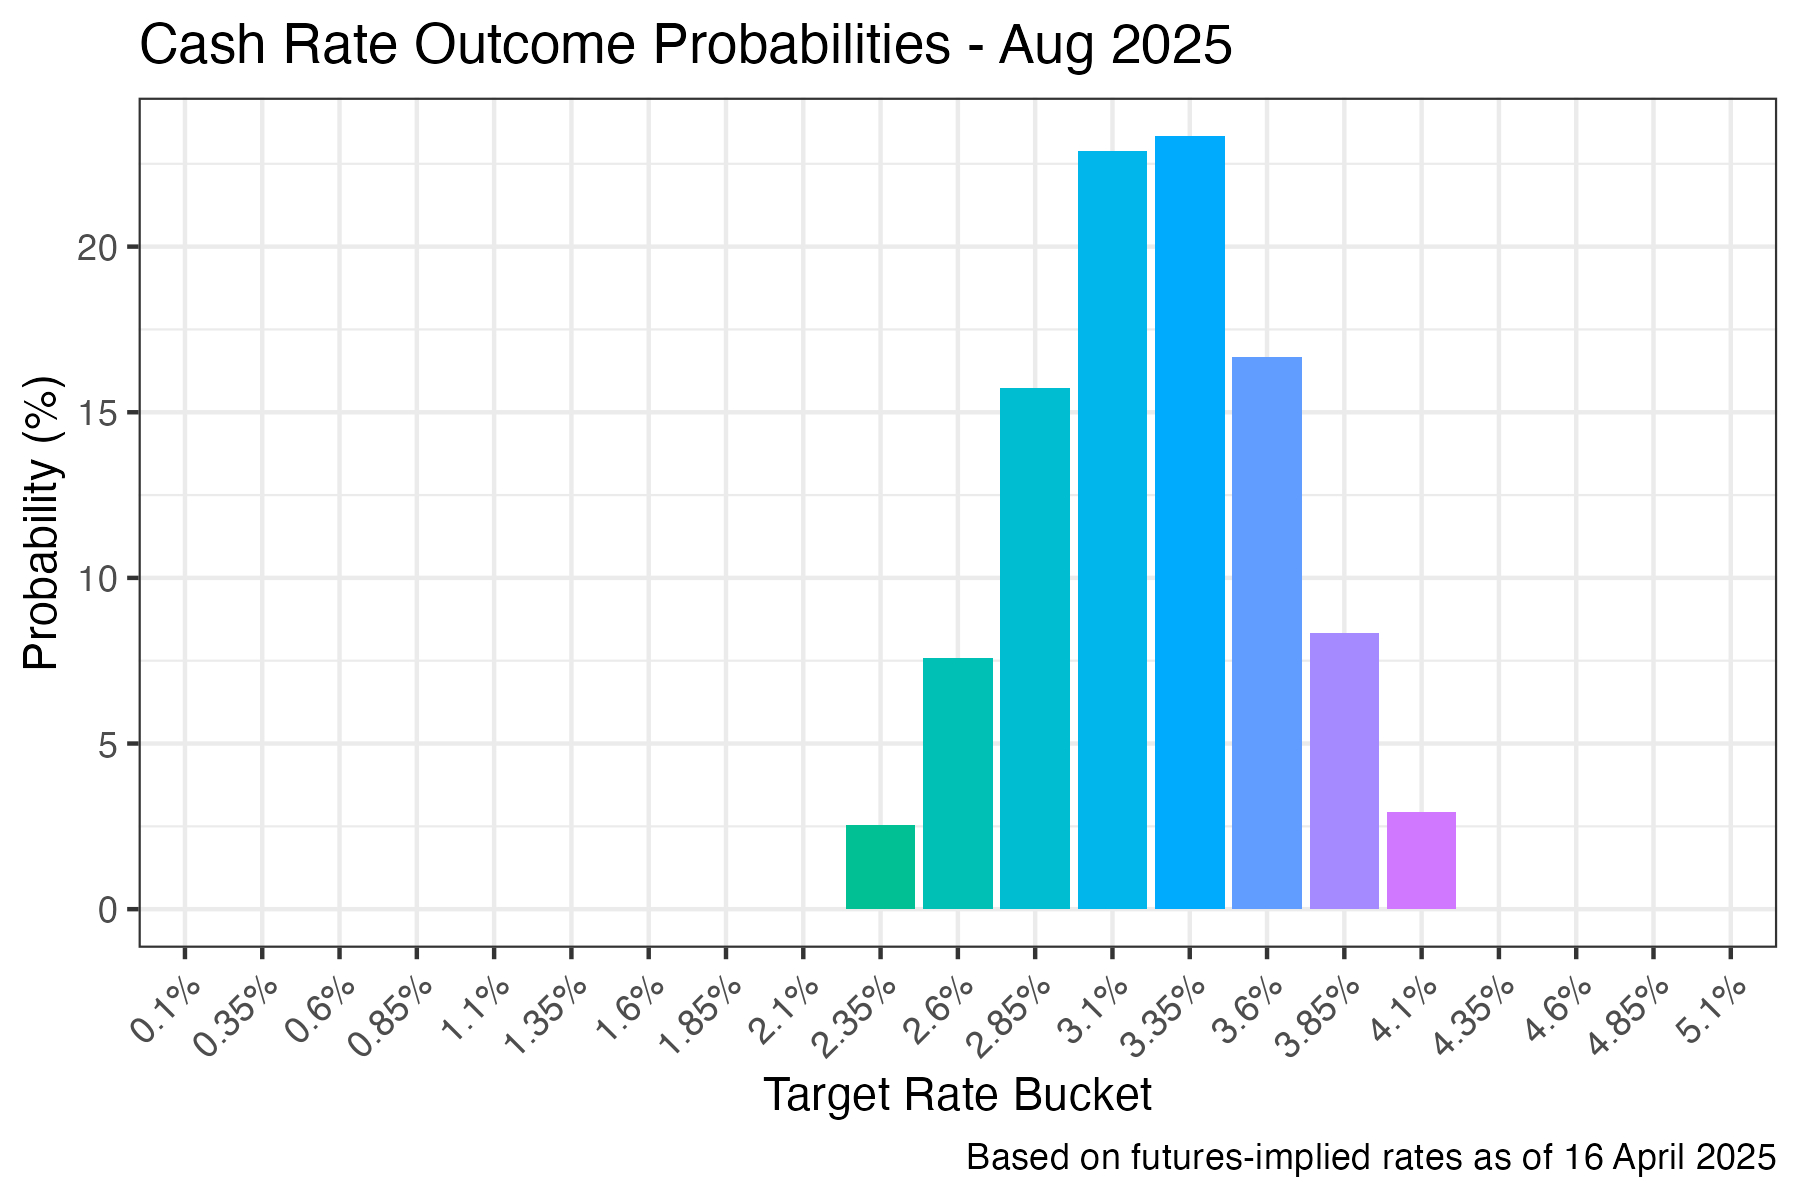
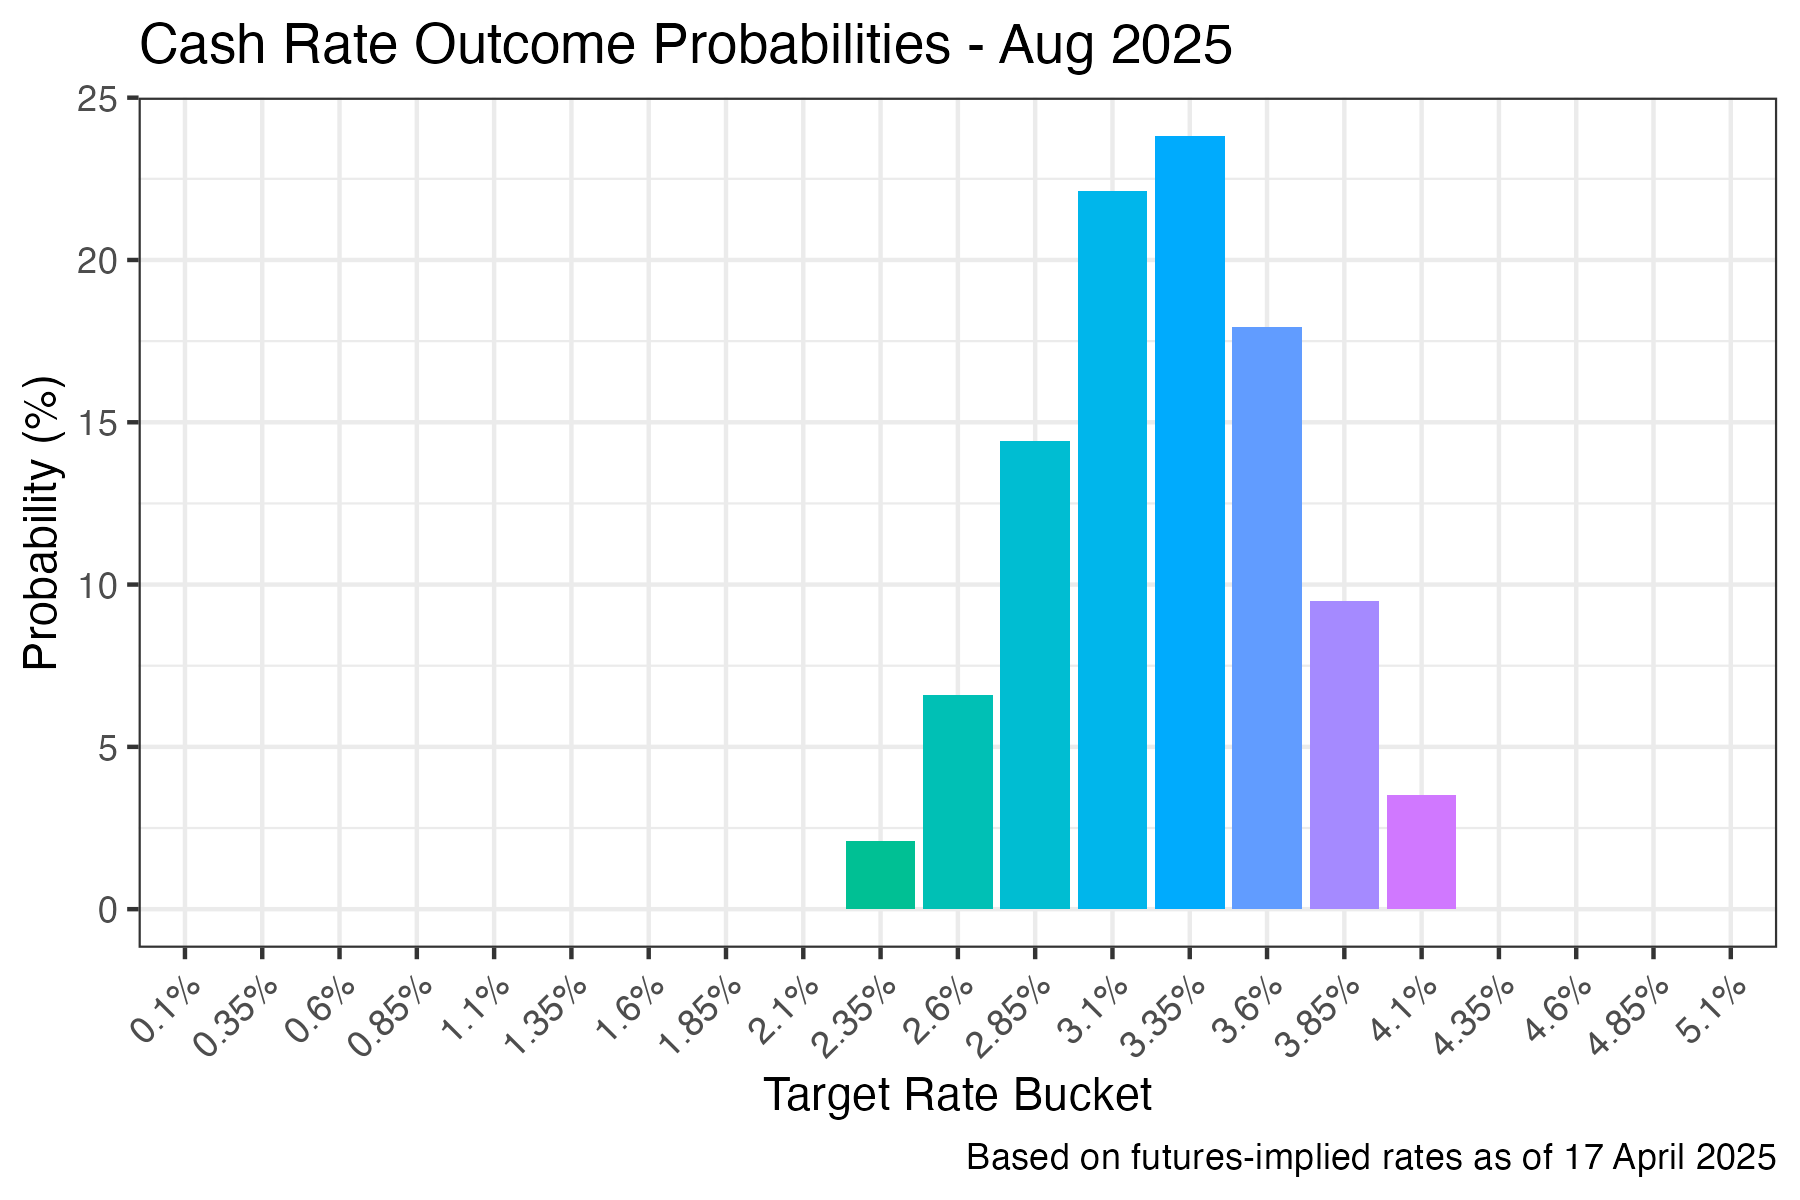
refreshing data

diff --git a/README.html b/README.html
@@ -622,7 +622,7 @@ repo.</p>
 <h1 id="graphs">Graphs!</h1>
 <p>The file <code>R/viz_cash_rate.R</code> produces visualisations of
 this data, which are shown below:</p>
-<pre><code>#&gt; # A tibble: 294 × 4
+<pre><code>#&gt; # A tibble: 147 × 4
 #&gt;    date       bucket probability month_label
 #&gt;    &lt;date&gt;     &lt;chr&gt;        &lt;dbl&gt; &lt;chr&gt;      
 #&gt;  1 2025-04-01 0.1%             0 Apr 2025   
@@ -635,32 +635,20 @@ this data, which are shown below:</p>
 #&gt;  8 2025-04-01 1.85%            0 Apr 2025   
 #&gt;  9 2025-04-01 2.1%             0 Apr 2025   
 #&gt; 10 2025-04-01 2.35%            0 Apr 2025   
-#&gt; # ℹ 284 more rows
+#&gt; # ℹ 137 more rows
 #&gt; [1] &quot;Apr 2025&quot;
-#&gt; Warning: Removed 21 rows containing missing values or values outside the scale range
-#&gt; (`geom_bar()`).
 #&gt; [1] &quot;May 2025&quot;
-#&gt; Warning: Removed 21 rows containing missing values or values outside the scale range
-#&gt; (`geom_bar()`).
 #&gt; [1] &quot;Jul 2025&quot;
-#&gt; Warning: Removed 21 rows containing missing values or values outside the scale range
-#&gt; (`geom_bar()`).
 #&gt; [1] &quot;Aug 2025&quot;
-#&gt; Warning: Removed 21 rows containing missing values or values outside the scale range
-#&gt; (`geom_bar()`).
 #&gt; [1] &quot;Sep 2025&quot;
-#&gt; Warning: Removed 21 rows containing missing values or values outside the scale range
-#&gt; (`geom_bar()`).
 #&gt; [1] &quot;Nov 2025&quot;
-#&gt; Warning: Removed 21 rows containing missing values or values outside the scale range
-#&gt; (`geom_bar()`).
 #&gt; [1] &quot;Dec 2025&quot;
 #&gt; Warning: Using `size` aesthetic for lines was deprecated in ggplot2 3.4.0.
 #&gt; ℹ Please use `linewidth` instead.
 #&gt; This warning is displayed once every 8 hours.
 #&gt; Call `lifecycle::last_lifecycle_warnings()` to see where this warning was
 #&gt; generated.
-#&gt; # A tibble: 189 × 3
+#&gt; # A tibble: 210 × 3
 #&gt;    scrape_date bucket probability
 #&gt;    &lt;date&gt;      &lt;chr&gt;        &lt;dbl&gt;
 #&gt;  1 2025-04-03  0.10%    1.56e-159
@@ -693,7 +681,7 @@ this data, which are shown below:</p>
 #&gt; 28 2025-04-04  1.60%    4.49e- 53
 #&gt; 29 2025-04-04  1.85%    1.58e- 41
 #&gt; 30 2025-04-04  2.10%    1.90e- 31
-#&gt; # ℹ 159 more rows</code></pre>
+#&gt; # ℹ 180 more rows</code></pre>
 
 </body>
 </html>

diff --git a/README.md b/README.md
@@ -29,7 +29,7 @@ Please fork/copy/modify as you see fit.
 The file `R/viz_cash_rate.R` produces visualisations of this data, which
 are shown below:
 
-    #> # A tibble: 294 × 4
+    #> # A tibble: 147 × 4
     #>    date       bucket probability month_label
     #>    <date>     <chr>        <dbl> <chr>      
     #>  1 2025-04-01 0.1%             0 Apr 2025   
@@ -42,32 +42,20 @@ are shown below:
     #>  8 2025-04-01 1.85%            0 Apr 2025   
     #>  9 2025-04-01 2.1%             0 Apr 2025   
     #> 10 2025-04-01 2.35%            0 Apr 2025   
-    #> # ℹ 284 more rows
+    #> # ℹ 137 more rows
     #> [1] "Apr 2025"
-    #> Warning: Removed 21 rows containing missing values or values outside the scale range
-    #> (`geom_bar()`).
     #> [1] "May 2025"
-    #> Warning: Removed 21 rows containing missing values or values outside the scale range
-    #> (`geom_bar()`).
     #> [1] "Jul 2025"
-    #> Warning: Removed 21 rows containing missing values or values outside the scale range
-    #> (`geom_bar()`).
     #> [1] "Aug 2025"
-    #> Warning: Removed 21 rows containing missing values or values outside the scale range
-    #> (`geom_bar()`).
     #> [1] "Sep 2025"
-    #> Warning: Removed 21 rows containing missing values or values outside the scale range
-    #> (`geom_bar()`).
     #> [1] "Nov 2025"
-    #> Warning: Removed 21 rows containing missing values or values outside the scale range
-    #> (`geom_bar()`).
     #> [1] "Dec 2025"
     #> Warning: Using `size` aesthetic for lines was deprecated in ggplot2 3.4.0.
     #> ℹ Please use `linewidth` instead.
     #> This warning is displayed once every 8 hours.
     #> Call `lifecycle::last_lifecycle_warnings()` to see where this warning was
     #> generated.
-    #> # A tibble: 189 × 3
+    #> # A tibble: 210 × 3
     #>    scrape_date bucket probability
     #>    <date>      <chr>        <dbl>
     #>  1 2025-04-03  0.10%    1.56e-159
@@ -100,4 +88,4 @@ are shown below:
     #> 28 2025-04-04  1.60%    4.49e- 53
     #> 29 2025-04-04  1.85%    1.58e- 41
     #> 30 2025-04-04  2.10%    1.90e- 31
-    #> # ℹ 159 more rows
+    #> # ℹ 180 more rows
